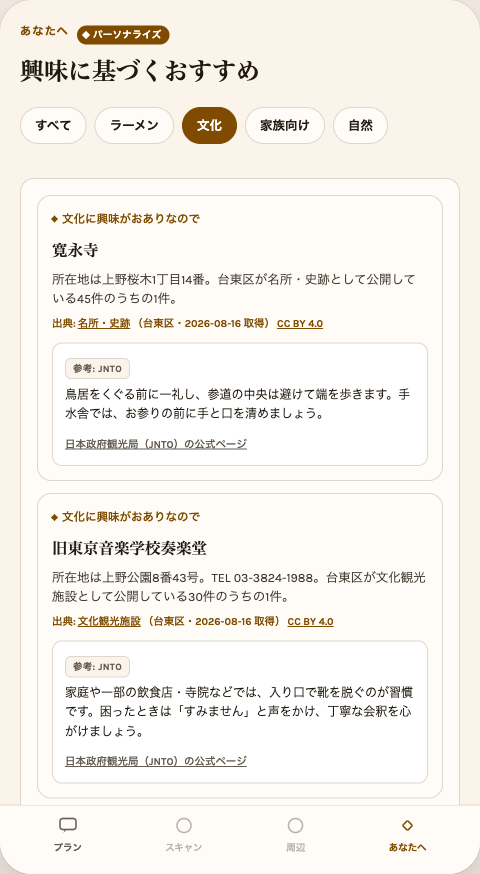
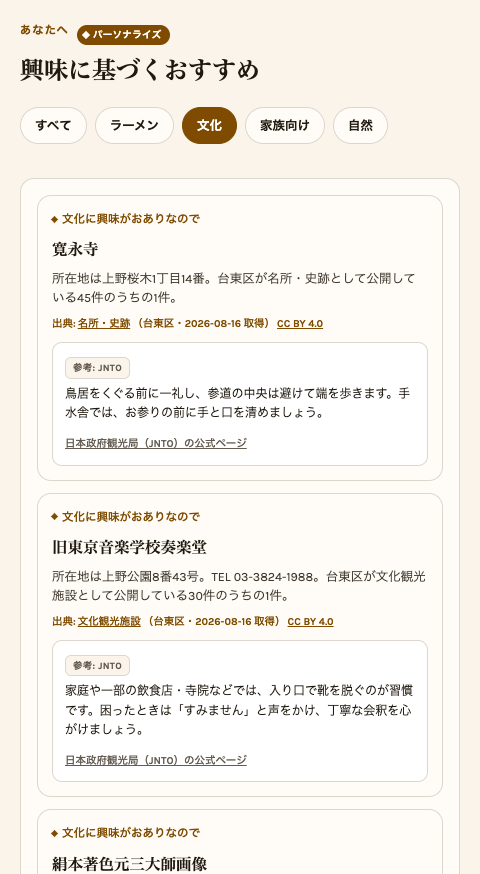
fix: #211 原稿の誤字を直し、build.js を v1.10.0 へ同期してキャプチャを撮り直す (#218)
* fix: #211 原稿の誤字を直し、build.js を v1.10.0 へ同期してキャプチャを撮り直す

## 誤字（#211 欠陥1）

「必須4項目」が「必颈4項目」に壊れていた3箇所を修正。v1.9.0 の編集で入った
置換ミスで、提出要件の固定語かつ提出前チェックリストの項目名だった。

## SSOT 同期（#211 欠陥2）

build.js の参照が v1.8.0 のまま、原稿は v1.9.0 まで進んでいた。v1.9.0 の
内容を build.js へ反映した:

- スライド9を「React／コア3操作／D1」の3層から、自然文 → メタデータRAG →
  Text-to-SQL → 出典強制の4段パイプラインへ。層と /mcp 公開は1枚へ集約
  （#117 / #119 / #120。全段に「稼働中」を付与）
- スライド14に開発スタイル（AI 仕様駆動開発）の帯を追加

## キャプチャ3枚の撮り直し

当初はスライド6のみの想定だったが、7/8 も変わっていた。#192 が
「答えられなかった問いは記録されます。…」の注記を未回答表示の脇に追加して
おり、旧キャプチャには写っていない。3枚とも本番（tokyo-odh-091）から実操作で
取得した。

- スライド6: 興味チップのみ・自由文空・ラーメンを外した「文化・家族向け・自然」
- スライド7: 文化チップ（寛永寺＋旧東京音楽学校奏楽堂＋JNTO 参考）
- スライド8: ラーメンチップ（insufficient_granularity ＋ #192 の注記）

**スライド6/7 は画面上部のみ**。#188 のイラストと #192 の注記で内容が縦に伸び、
フレーム全体は 480x1113 / 480x1550 になった。全高を貼ると資料の枠（比率
0.549）で幅 1.6〜2.2in の短冊になり本文が 2.8pt 相当まで潰れるため、比率を
保って上部を表示する方を採った。タブバーが写らなくなったので 6/7 の
キャプションからタブの断り書きを外した（SCROLL_CAPTION として分離）。
スライド8は 480x874 に収まりタブバーまで写るため TAB_CAPTION のまま。

## .gitignore

Playwright MCP の作業ファイル（.playwright-mcp/）と Codex のローカル環境設定
（.codex/）を無視対象へ追加。撮影中に **リポジトリ直下へ 480x1113 の
deck-plan.png が実際に落ちた** ため、PR #202 で入れたファイル名アンカーが
機能することも確認できた。

## 検証

- 3枚とも 480x874（従来と同一比率）。build.js のインチ指定は変更不要
- 撮影前に本番の bundle が develop のビルドと一致することを確認
  （index-C5d3xiTN.js）
- #114（未回答メッセージの照合対象）が写り込まないことを3画面で確認。worker
  側は未デプロイだが、この文言は3枚のいずれにも現れない
- スライド1/6/7/8/9/14 を soffice + pdftoppm で描画して目視。あふれ・
  引き伸ばし・列落ちなし
- typecheck / test（44 files・902 tests）/ build / ace:check-* /
[…]

diff --git a/deck/build.js b/deck/build.js
@@ -1,5 +1,5 @@
 // 旅コンシェルジュTOKYO — 提出資料（16:9・14枚）
-// 文言の SSOT: docs/submission-deck.md v1.8.0 / docs/02-design/DATABASE.md §2
+// 文言の SSOT: docs/submission-deck.md v1.10.0 / docs/02-design/DATABASE.md §2
 //
 // 縦のリズム: kicker 0.24 / title 0.55–1.55 / 本文 1.95–6.85 / 下マージン 0.65
 const pptxgen = require("pptxgenjs");
@@ -226,7 +226,7 @@ function closer(slide, text, o = {}) {
   const layers = [
     {
       k: "live", d: "本番URLで今動く",
-      items: "旅のプロフィール入力／プラン生成\nあなたへ／出典チップ／gaps 記録\nD1（10データセット・1,645スポット）\n/mcp でのコア3操作公開\nText-to-SQL による D1 実照会",
+      items: "旅のプロフィール入力／プラン生成\nあなたへ／出典チップ／gaps 記録\nD1（10データセット・1,645スポット）\n/mcp でのコア3操作公開\nText-to-SQL による D1 実照会\nメタデータRAG による自然文の分解",
     },
     {
       k: "spec", d: "仕様は確定、コードはこれから",
@@ -296,7 +296,10 @@ function closer(slide, text, o = {}) {
 }
 
 // ─────────────────────────────────────────── 6・7. 動く画面
+// スライド8 は画面全体が収まりタブバーまで写るため、タブの断り書きを付ける。
 const TAB_CAPTION = "画面下部のタブ「スキャン」「周辺」はデザイン構想です（スライド4の凡例）。キャプチャは本番URLを実際に操作して取得しました（2026-08-22）。";
+// スライド6/7 は内容が縦に長く、写っているのは画面上部だけ。写っていないものに言及しない。
+const SCROLL_CAPTION = "キャプチャは本番URLを実際に操作して取得しました（2026-08-22）。画面が縦に長いため上部のみを表示しています。";
 
 function screenSlide(o) {
   const s = lightSlide();
@@ -338,7 +341,7 @@ screenSlide({
     { t: "停留地ごとにデータセットの出典を表示", d: "データセット名・提供元・取得日と、東京都オープンデータカタログへのリンクが付きます。" },
     { t: "CC BY 4.0 の表示義務を自動で満たす", d: "回答が必ずデータセットに紐づくため、ライセンス表示が構造的に落ちません。" },
   ],
-  caption: TAB_CAPTION,
+  caption: SCROLL_CAPTION,
   notes: "プラン画面。3停留地すべてに出典チップが付いていることを指す。",
 });
 
@@ -352,7 +355,7 @@ screenSlide({
     { t: "1件ずつに出典とライセンスが付く", d: "プラン画面と同じ出典チップが、レコメンドカードにも必ず付きます。" },
     { t: "マナーの参考情報は出典と区別して表示", d: "JNTO の参考情報は「参考」として、オープンデータの出典とは見た目もラベルも分けています。" },
   ],
-  caption: TAB_CAPTION,
+  caption: SCROLL_CAPTION,
   notes: "あなたへ画面。出典（オープンデータ）と参考（JNTO）を混ぜていないことが要点。",
 });
 
@@ -403,41 +406,51 @@ screenSlide({
   kicker(s, "仕組み ②");
   title(s, "出典強制を、アーキテクチャで担保する。");
 
+  // 4段 + 矢印3本で本文幅 11.8 に収める（STEP_W * 4 + STEP_GAP * 3 = 11.8）
+  const STEP_W = 2.575;
+  const STEP_GAP = 0.5;
+  const STEP_PAD = 0.22;
   const boxes = [
-    { t: "React アプリ", d: "旅コンシェルジュTOKYO\n（最初のクライアント）", k: "live" },
-    { t: "コア3操作", d: "search_datasets\naggregate_dataset\nget_provenance", k: "live" },
-    { t: "Cloudflare D1", d: "10データセット\n1,645スポット", k: "live" },
+    { t: "自然文の質問", d: "「上野で文化と自然」\n自由文で受け取る", k: "live" },
+    { t: "メタデータRAG", d: "収録10件のメタデータから\n候補を特定", k: "live" },
+    { t: "Text-to-SQL", d: "生成SQLを封じ込めて\nD1 を実照会", k: "live" },
+    { t: "出典強制", d: "根拠が取れなければ\n答えない", k: "live" },
   ];
   boxes.forEach((b, i) => {
-    const x = 0.75 + i * 4.28;
-    card(s, { x, y: 1.95, w: 3.6, h: 2.2, fill: P.white, stroke: P.line });
+    const x = 0.75 + i * (STEP_W + STEP_GAP);
+    card(s, { x, y: 1.95, w: STEP_W, h: 2.2, fill: P.white, stroke: P.line });
     s.addText(b.t, {
-      x: x + 0.3, y: 2.18, w: 3.0, h: 0.4, fontFace: HEAD, fontSize: 17, bold: true,
-      color: P.ink, margin: 0, valign: "middle",
+      x: x + STEP_PAD, y: 2.18, w: STEP_W - STEP_PAD * 2, h: 0.4, fontFace: HEAD, fontSize: 14.5,
+      bold: true, color: P.ink, margin: 0, valign: "middle",
     });
     s.addText(b.d, {
-      x: x + 0.3, y: 2.66, w: 3.0, h: 0.9, fontFace: BODY, fontSize: 11.5,
-      color: P.muted, lineSpacing: 18, margin: 0, valign: "top",
+      x: x + STEP_PAD, y: 2.66, w: STEP_W - STEP_PAD * 2, h: 0.9, fontFace: BODY, fontSize: 10.5,
+      color: P.muted, lineSpacing: 16, margin: 0, valign: "top",
     });
-    pill(s, x + 0.3, 3.62, b.k);
-    if (i < 2) {
+    pill(s, x + STEP_PAD, 3.62, b.k);
+    if (i < boxes.length - 1) {
       s.addText("→", {
-        x: x + 3.62, y: 2.8, w: 0.64, h: 0.5, fontFace: BODY, fontSize: 22, bold: true,
+        x: x + STEP_W, y: 2.8, w: STEP_GAP, h: 0.5, fontFace: BODY, fontSize: 20, bold: true,
         color: P.brand, align: "center", valign: "middle", margin: 0,
       });
     }
   });
 
+  s.addText("メタデータRAG が動くのは自然文の質問を受けたとき（/mcp・自由文入力）。興味チップだけの呼び出しは構造化入力なので、この段を通らず3段目から入ります。", {
+    x: 0.75, y: 4.17, w: 11.8, h: 0.26, fontFace: BODY, fontSize: 9.5,
+    color: P.muted, margin: 0, valign: "middle",
+  });
+
   card(s, { x: 0.75, y: 4.45, w: 5.94, h: 2.1, fill: P.tint, stroke: P.line });
-  s.addText("同じ3操作を /mcp でも公開", {
-    x: 1.07, y: 4.68, w: 5.3, h: 0.4, fontFace: HEAD, fontSize: 16, bold: true,
+  s.addText("React → /api/* → D1、同じ3操作を /mcp でも公開", {
+    x: 1.07, y: 4.68, w: 5.3, h: 0.4, fontFace: HEAD, fontSize: 14, bold: true,
     color: P.ink, margin: 0, valign: "middle",
   });
-  s.addText("AI クライアントや翌年の参加者が、旅行アプリを経由せずに同じコア3操作を呼べます。本番で稼働しています。", {
-    x: 1.07, y: 5.14, w: 5.3, h: 0.85, fontFace: BODY, fontSize: 11.5,
+  s.addText("React アプリは /api/* でコア3操作（search_datasets / aggregate_dataset / get_provenance）を呼びます。同じ3操作を /mcp でも公開しており、AI クライアントや翌年の参加者が旅行アプリを経由せずに呼べます。", {
+    x: 1.07, y: 5.1, w: 5.3, h: 1.0, fontFace: BODY, fontSize: 11.5,
     color: P.muted, lineSpacing: 17, margin: 0, valign: "top",
   });
-  pill(s, 1.07, 6.06, "live");
+  pill(s, 1.07, 6.14, "live");
 
   card(s, { x: 6.94, y: 4.45, w: 5.61, h: 2.1, fill: P.espresso, stroke: P.espresso });
   s.addText("出典が取れない回答は生成しない", {
@@ -448,7 +461,7 @@ screenSlide({
     x: 7.26, y: 5.14, w: 4.97, h: 1.2, fontFace: BODY, fontSize: 11.5,
     color: P.cream, lineSpacing: 18, margin: 0, valign: "top",
   });
-  s.addNotes("アーキテクチャ。出典強制が運用ルールではなく構造であることが要点。");
+  s.addNotes("アーキテクチャ。自然文→メタデータRAG→Text-to-SQL→出典強制のパイプラインが全段稼働していること、出典強制が運用ルールではなく構造であることが要点（Issue #117 / #119 / #120）。メタデータRAG が見ているのは収録済みの確定10件で、9,600件は「カタログにある数」であって「検索している数」ではない（全カタログ・イン・プロンプト方式・Vectorize 不採用。worker/core/interpret.ts）。訊かれたら10件と答える。**4段は常に直列に通るわけではない** — 興味チップを選んだ呼び出しは構造化入力なので operations.ts の interpreted() が interpretQuery を呼ばず、2段目を飛ばして3段目から入る。スライド6/7/8のキャプチャは「興味チップのみ・自由文は空」で撮っているため、いずれも2段目を通っていない。2段目が働くのは /mcp・API コンソール・チップ未選択の自由文。");
 }
 
 // ─────────────────────────────────────────── 10. データが育つループ
@@ -466,7 +479,7 @@ screenSlide({
   steps.forEach((st, i) => {
     const x = 0.75 + i * 3.02;
     const on = st.k === "live";
-    card(s, { x, y: 1.95, w: 2.78, h: 3.55, fill: on ? P.white : "FBF8F3", stroke: P.line });
+    card(s, { x, y: 1.95, w: 2.78, h: 3.0, fill: on ? P.white : "FBF8F3", stroke: P.line });
     s.addShape(pres.ShapeType.ellipse, {
       x: x + 0.26, y: 2.24, w: 0.58, h: 0.58,
       fill: { color: on ? P.brand : P.spec }, line: { color: on ? P.brand : P.spec, width: 0 },
@@ -476,24 +489,35 @@ screenSlide({
       color: P.white, align: "center", valign: "middle", margin: 0,
     });
     s.addText(st.t, {
-      x: x + 0.26, y: 3.02, w: 2.26, h: 0.65, fontFace: HEAD, fontSize: 15.5, bold: true,
+      x: x + 0.26, y: 2.95, w: 2.26, h: 0.55, fontFace: HEAD, fontSize: 15.5, bold: true,
       color: P.ink, lineSpacing: 21, margin: 0, valign: "top",
     });
     s.addText(st.d, {
-      x: x + 0.26, y: 3.74, w: 2.26, h: 1.3, fontFace: BODY, fontSize: 11,
+      x: x + 0.26, y: 3.57, w: 2.26, h: 0.9, fontFace: BODY, fontSize: 11,
       color: P.muted, lineSpacing: 16, margin: 0, valign: "top",
     });
-    pill(s, x + 0.26, 5.08, st.k);
+    pill(s, x + 0.26, 4.57, st.k);
     if (i < 3) {
       s.addText("→", {
-        x: x + 2.8, y: 3.5, w: 0.22, h: 0.5, fontFace: BODY, fontSize: 18, bold: true,
+        x: x + 2.8, y: 3.2, w: 0.22, h: 0.5, fontFace: BODY, fontSize: 18, bold: true,
         color: P.brand, align: "center", valign: "middle", margin: 0,
       });
     }
   });
 
-  closer(s, "答えられないことを記録に残すと、それは失敗ではなく、次に何を公開してほしいかの一次情報になります。", { y: 5.8, h: 1.05, size: 17 });
-  s.addNotes("gaps ループ。記録までは稼働中、都への提出プロセスは未実装であることを区別する。");
+  // 本番の /gaps ダッシュボード。ループが実際に回っていることの証拠として実物を置く。
+  // 画像は 880x534（比率 1.648）なので、高さ 1.77in なら幅 2.92in。
+  s.addImage({ path: here("img/deck-gaps.png"), x: 0.75, y: 5.08, w: 2.92, h: 1.77 });
+  card(s, { x: 3.87, y: 5.08, w: 8.68, h: 1.77, fill: P.tint, stroke: P.line });
+  s.addText("答えられないことを記録に残すと、それは失敗ではなく、次に何を公開してほしいかの一次情報になります。", {
+    x: 4.19, y: 5.26, w: 8.04, h: 0.58, fontFace: HEAD, fontSize: 15, bold: true,
+    color: P.brand, lineSpacing: 20, margin: 0, valign: "middle",
+  });
+  s.addText("左は本番の /gaps ダッシュボード。2026-08-22 時点で 46 件を記録し、理由別（粒度不足 26 / その他 18 / 対象エリア外 2）とエリア別に集計しています。稼働中のカウンターなので、使われるたびに増えます。都への提出プロセス自体は未実装です。", {
+    x: 4.19, y: 5.9, w: 8.04, h: 0.8, fontFace: BODY, fontSize: 11,
+    color: P.muted, lineSpacing: 16, margin: 0, valign: "top",
+  });
+  s.addNotes("gaps ループ。記録までは稼働中、都への提出プロセスは未実装であることを区別する。左下は本番 /gaps の実物（2026-08-22 時点で46件）。");
 }
 
 // ─────────────────────────────────────────── 11. 基盤の開放
@@ -681,7 +705,7 @@ screenSlide({
   ];
   team.forEach((m, idx) => {
     const x = 0.75 + idx * 4.05;
-    card(s, { x, y: 2.0, w: 3.75, h: 3.0, fill: P.card, stroke: P.cardLine });
+    card(s, { x, y: 2.0, w: 3.75, h: 2.85, fill: P.card, stroke: P.cardLine });
     s.addShape(pres.ShapeType.ellipse, {
       x: x + 0.32, y: 2.32, w: 0.74, h: 0.74, fill: { color: P.gold }, line: { color: P.gold, width: 0 },
     });
@@ -699,15 +723,25 @@ screenSlide({
     });
   });
 
+  card(s, { x: 0.75, y: 4.98, w: 11.8, h: 0.74, fill: P.card, stroke: P.cardLine });
+  s.addText("開発スタイル", {
+    x: 1.07, y: 5.09, w: 1.7, h: 0.28, fontFace: BODY, fontSize: 10, bold: true,
+    color: P.gold, charSpacing: 1.2, margin: 0, valign: "middle",
+  });
+  s.addText("仕様書（docs/）を SSOT に、Claude Code / Codex による AI 仕様駆動開発でフルオート実装。仕様→実装→検証のループを AI が回します。", {
+    x: 1.07, y: 5.38, w: 11.16, h: 0.3, fontFace: BODY, fontSize: 11,
+    color: P.dim, margin: 0, valign: "middle",
+  });
+
   s.addText("9,600のオープンデータを、旅の相棒に。", {
-    x: 0.75, y: 5.55, w: 11.8, h: 0.6, fontFace: HEAD, fontSize: 24, bold: true,
+    x: 0.75, y: 5.9, w: 11.8, h: 0.55, fontFace: HEAD, fontSize: 24, bold: true,
     color: P.gold, margin: 0, valign: "middle",
   });
   s.addText("https://tabi-concierge-tokyo.tokyo-odh-091.workers.dev", {
-    x: 0.75, y: 6.22, w: 11.8, h: 0.35, fontFace: BODY, fontSize: 12,
+    x: 0.75, y: 6.48, w: 11.8, h: 0.32, fontFace: BODY, fontSize: 12,
     color: "9E9184", margin: 0, valign: "middle",
   });
-  s.addNotes("チーム紹介。役割分担のみを載せる。");
+  s.addNotes("チーム紹介。役割分担と開発スタイル（AI 仕様駆動開発）を載せる。");
 }
 
 pres.writeFile({ fileName: here("tabi-concierge-tokyo-submission.pptx") }).then((f) => console.log("wrote", f));

diff --git a/docs/submission-deck.md b/docs/submission-deck.md
@@ -1,6 +1,6 @@
 ---
 title: "submission-deck"
-version: "1.9.0"
+version: "1.10.0"
 status: "draft"
 owner: "@fffokazaki"
 created: "2026-08-21"
@@ -16,7 +16,7 @@ changeImpact: "medium"
 - 形式: PowerPoint または PDF・16:9 横
 - 添付: 画面キャプチャ **1600×900px** を1〜3点
 - 登録: 利用オープンデータ 最低1件〜最大10件（データURL＋タイトル）
-- 必颈4項目: ①課題及び解決策 ②プロダクト ③利用オープンデータ ④チーム紹介
+- 必須4項目: ①課題及び解決策 ②プロダクト ③利用オープンデータ ④チーム紹介
 
 > **この原稿から PPTX を生成するビルダーは [`deck/`](../deck/) にある**（`cd deck && npm run build`）。本書を直したら `deck/build.js` 側も同期すること。`build.js` は冒頭コメントで参照している本書のバージョンを持っており、そこがズレていたら未同期のサインである。
 >
@@ -56,7 +56,7 @@ changeImpact: "medium"
 | 6 | ② | 動く画面①：旅のプロフィール → プラン生成。全提案に出典チップが付く | **キャプチャ候補1** |
 | 7 | ② | 動く画面②：あなたへ。興味チップ → 出典つきレコメンド | **キャプチャ候補2** |
 | 8 | ② | **【山】答えられないときは、答えません**：ラーメン → 粒度不足と判定し理由を返す | **キャプチャ候補3**。文言は §3 で固定 |
-| 9 | ② | 仕組み：React → `/api/*` コア3操作（`search_datasets` / `aggregate_dataset` / `get_provenance`）→ D1。**技術的特異点をパイプラインで見せる：自然文 → メタデータRAGでデータセット特定 → Text-to-SQLでD1実照会 → 出典強制（根拠がなければ答えない）。いずれも稼働中**（[Issue #117](https://github.com/fffokazaki/tabi-concierge-tokyo/issues/117) / [#119](https://github.com/fffokazaki/tabi-concierge-tokyo/issues/119) / [#120](https://github.com/fffokazaki/tabi-concierge-tokyo/issues/120)）。同じコア3操作を `/mcp` でも公開。出典強制により CC BY 4.0 の表示義務をアーキテクチャで自動達成 | 図中で稼働中／設計済みを区別 |
+| 9 | ② | 仕組み：React → `/api/*` コア3操作（`search_datasets` / `aggregate_dataset` / `get_provenance`）→ D1。**技術的特異点をパイプラインで見せる：自然文の質問 → メタデータRAGによる分解でデータセット特定 → Text-to-SQLでD1実照会 → 出典強制（根拠がなければ答えない）。各段はいずれも稼働中**（[Issue #117](https://github.com/fffokazaki/tabi-concierge-tokyo/issues/117) / [#119](https://github.com/fffokazaki/tabi-concierge-tokyo/issues/119) / [#120](https://github.com/fffokazaki/tabi-concierge-tokyo/issues/120)）。**ただし4段は常に直列に通るわけではない** —— 興味チップを選んだ呼び出しは構造化入力なので `operations.ts` の `interpreted()` が `interpretQuery` を呼ばず、2段目を飛ばして3段目から入る（[API.md](02-design/API.md) §3.1）。2段目が働くのは `/mcp`・API コンソール・チップ未選択の自由文。**図とスライド上の断り書きでこれを明示すること**（スライド6/7/8のキャプチャは「興味チップのみ・自由文は空」で撮っているため、いずれも2段目を通っていない）。同じコア3操作を `/mcp` でも公開。出典強制により CC BY 4.0 の表示義務をアーキテクチャで自動達成 | 図中で稼働中／設計済みを区別 |
 | 10 | ② | データが育つループ：未回答を `gaps` に記録（本番D1で実際に動作）→ 分類 → 都への公開リクエスト（提出プロセスは構想） | — |
 | 11 | ② | 基盤の開放：コンシェルジュは MCP サーバーとして開放予定。**別リポジトリへ切り出し MIT ライセンスで OSS 公開予定**（[Issue #129](https://github.com/fffokazaki/tabi-concierge-tokyo/issues/129)）。旅行アプリは「最初のクライアント」にすぎない | **OSS 化の対象はコンシェルジュのみ**（旅行アプリ `src/` は対象外）。データ側 CC BY 4.0 とコード側 MIT を**別物として並記** |
 | 12 | ③ | 利用オープンデータ10件：タイトル・提供元・役割・ライセンス・カタログURL | [DATABASE.md](02-design/DATABASE.md) §2 の確定表をそのまま |
@@ -92,9 +92,26 @@ changeImpact: "medium"
 
 ## 5. 提出前チェックリスト
 
-- [ ] **必颈4項目の充足** — ①②③④が全て資料内に存在することを指差し確認
-- [ ] **スライド6のキャプチャを撮り直す**（1600×900px・現本番URL）。2026-08-22 に取得した旧キャプチャは、[Issue #188](https://github.com/fffokazaki/tabi-concierge-tokyo/issues/188) のカテゴリイラスト追加後のプラン画面と見た目が一致しないため使用しない。操作条件は従来どおり、興味チップのみ・自由文は空、ラーメンを外した「文化・家族向け・自然」とする
-- [x] **スライド7/8のキャプチャ**は2026-08-22取得済みのものを維持する。Issue #188 の対象はプラン画面の停留地カードだけで、「あなたへ」画面と未回答表示は変更しない
+- [ ] **必須4項目の充足** — ①②③④が全て資料内に存在することを指差し確認
+- [x] **資料に埋め込むキャプチャ3枚（スライド6/7/8）を撮り直した**（2026-08-22・現本番URL `tokyo-odh-091`・**480×874**）。これは資料内に貼る端末フレーム画像で、**下の提出フォーム添付（1600×900px）とは別の成果物**。当初はスライド6のみの想定だったが、**7/8 も変わっていた** ―― [Issue #192](https://github.com/fffokazaki/tabi-concierge-tokyo/issues/192) が「答えられなかった問いは記録されます。…」の注記を未回答表示の脇に追加しており、旧キャプチャにはこれが写っていない。操作条件は従来どおり、興味チップのみ・自由文は空、スライド6はラーメンを外した「文化・家族向け・自然」、スライド7は文化チップ、スライド8はラーメンチップ
+- [x] **スライド6/7のキャプチャは画面上部のみ**。フレーム全体（`.app-shell`）の高さは実測で **プラン 480×1113 / あなたへ 480×1550**（2026-08-22）。全高を貼ると資料の枠（`screenSlide` の `w: 2.86, h: 5.21`・比率 0.549）で幅 **1.6〜2.3in** の短冊になり、本文が **2.8pt 相当**まで潰れるため、**比率を保って上部を表示する**方を採った。
+
+  | 画像 | 実寸 | 全高で貼った場合の幅 | 本文の実効サイズ |
+  | --- | --- | --- | --- |
+  | プラン | 480×1113 | 5.21 × 480/1113 = 2.25in | 3.9pt |
+  | あなたへ | 480×1550 | 5.21 × 480/1550 = 1.61in | **2.8pt** |
+  | ラーメン | 480×874 | 5.21 × 480/874 = 2.86in（枠と一致） | 4.9pt |
+
+  pt は **アプリ本文の 11.5px**（本番で実測した最頻の本文サイズ）を基準に `11.5 / 480 × 幅in × 72` で換算した値。**旧キャプチャは3枚とも 480×874 だが、当時のフレーム高を測った記録が無い**ため、当時 `.app-shell` が 874 に収まっていたのか、当時も上部だけを写していたのかは確定できない（#188 のイラストと #192 の注記でいまが伸びていることは実測済み）。タブバーが写らなくなったので、6/7 のキャプションからタブの断り書きを外した（`SCROLL_CAPTION`）。スライド8は 480×874 に収まりタブバーまで写るため従来の `TAB_CAPTION` のまま
+- [x] **提出フォームに添付する画面キャプチャ 1600×900px を3点用意した**（2026-08-22・本番 `tokyo-odh-091`・興味チップのみ・自由文は空）。**資料に埋め込む 480×874 の端末フレーム画像とは別物**で、そちらを添付しても規定を満たさない（[CONSTRAINTS.md](01-context/CONSTRAINTS.md) §7 の変更不可の規定）。**`deck/submit/` に追跡している**（撮り直すと `/gaps` の件数が変わって同じものにならないため、生成物ではなく提出物として固定する）。`~/Documents/tabi-concierge-tokyo-deck/submit/` にも同じものを置いた。撮り方は [deck/README.md](../deck/README.md) に記録した
+
+  | # | 画面 | 見せているもの |
+  | --- | --- | --- |
+  | 1 | プラン | 3停留地すべてに出典チップ + CC BY 4.0、カテゴリイラスト、タブバー |
+  | 2 | あなたへ（ラーメン） | `insufficient_granularity` と理由、記録される旨の注記 |
+  | 3 | `/gaps` | 未回答の件数と理由別・エリア別の内訳 |
+
+  `.app-shell` は 1600×900 のビューポートでも **480×874 固定**（内部がスクロールする端末モック）なので、ビューポートごと撮ればフレーム全体とタブバーが1枚に収まる。`/gaps` はデスクトップ幅のページなので画面いっぱいに写る。**`/gaps` の件数は稼働中のカウンターで増える** —— 撮影中にも 46 → 48 と動いた（アプリを操作した分が記録された）
 - [ ] **タブバーの見え方を確認** — スキャン・周辺は `AppTabs.tsx` の `INACTIVE_TABS` で disabled 表示。キャプチャだけを見る審査員はスライド4の凡例を見ないため、「未完成に見える」ならキャプチャ内かキャプション側に「スキャン・周辺はデザイン構想」と明示する。**見え方の確認は済み**（2026-08-22・薄いグレーのラベルで「壊れている」ようには見えないが、キャプチャ単体では「まだ作っていない」と読める）。**キャプション側に置く方針**で、記載は資料作成（[Issue #127](https://github.com/fffokazaki/tabi-concierge-tokyo/issues/127)）で行うため未チェックのまま残す
 - [ ] **カタログURL の生存確認** — 確定10件を提出直前に再確認（[DATABASE.md](02-design/DATABASE.md) §3）
 - [ ] **スライド11 の OSS 記述の確認** — OSS 化の対象は**コンシェルジュ（`worker/` `shared/` `scripts/` `migrations/`）のみ**で、旅行アプリ `src/` は含まない。切り出しの実施は提出後〜Final Stage（[Issue #129](https://github.com/fffokazaki/tabi-concierge-tokyo/issues/129)）のため、提出資料には「公開予定」と書く
@@ -110,6 +127,26 @@ changeImpact: "medium"
 - [TASKS.md](07-project-management/TASKS.md) — 提出物タスクの進捗
 
 ## Changelog
+
+### [1.10.0] - 2026-08-22
+
+#### 修正
+
+- 「必須4項目」の「須」が別字（U+5FC5 U+9885）に置換されていた3箇所を修正（[Issue #211](https://github.com/fffokazaki/tabi-concierge-tokyo/issues/211)）。v1.9.0 の編集で入った置換ミス。提出要件の固定語であり、提出前チェックリストの項目名でもあった。**壊れた字そのものは本書に書かない** —— Issue #211 の受け入れ条件が「検索して0件」であるため、引用が自分でゲートに引っかかる
+
+#### 変更
+
+- **v1.9.0 で未実施だった `deck/build.js` への同期を実施**（[Issue #211](https://github.com/fffokazaki/tabi-concierge-tokyo/issues/211)）:
+  - スライド9を「React／コア3操作／D1」の3層から、**自然文 → メタデータRAG → Text-to-SQL → 出典強制の4段パイプライン**へ。層と `/mcp` 公開は1枚のカードへ集約（[Issue #117](https://github.com/fffokazaki/tabi-concierge-tokyo/issues/117) / [#119](https://github.com/fffokazaki/tabi-concierge-tokyo/issues/119) / [#120](https://github.com/fffokazaki/tabi-concierge-tokyo/issues/120)）
+  - スライド14に開発スタイル（AI 仕様駆動開発）の帯を追加
+- **キャプチャ3枚を撮り直した**（§5 参照）。スライド6/7は画面上部のみの表示に変え、キャプションをタブバーに言及しない `SCROLL_CAPTION` へ分離した
+
+#### 修正（セルフレビュー指摘）
+
+- スライド9の「メタデータRAG」の説明が「約9,600件のカタログからデータセットを特定」になっていたのを「収録10件のメタデータから候補を特定」へ修正。実装は**確定10件のメタデータをプロンプトへ全件渡す方式**（Vectorize 不採用・`worker/core/interpret.ts`）で、9,600件は「カタログにある数」であって「検索している数」ではない。「稼働中」バッジ付きで未実装範囲を稼働中として提示していた（絶対ルール #1）
+- スライド9の4段パイプラインが「常に直列に通る」と読める構成だったのを修正。**興味チップの呼び出しは構造化入力なので2段目（メタデータRAG）を飛ばす**（`operations.ts` の `interpreted()`）。1段目の説明が「自然文」と「プロフィールと興味」を混ぜていたのを自然文だけに絞り、スライド上に経路の断り書きを1行追加した。**§2 のスライド9行（SSOT 側）も同時に限定した** —— ここを直さないと次の同期で `build.js` へ戻ってくる
+- §5 の数値を再導出可能にした。幅の範囲が自分の上限（2.25in）を含んでいなかったのを 1.6〜2.3in へ、pt の換算基準（アプリ本文 11.5px・本番実測）を明記、「480×874→1550」の矢印記法が「旧キャプチャ時点のフレーム高」と「いまのフレーム高」を1つに潰していたのを分けて書いた
+- §5 のキャプチャ項目が**2つの別成果物を混同していた**のを分離。資料に埋め込む端末フレーム画像（480×874）と、提出フォームに添付する画面キャプチャ（1600×900px・規定）は別物で、後者は**未実施**として明示した。混同は本 PR 以前からあり（旧文は「スライド6のキャプチャを撮り直す（1600×900px）」と両者を1項目に混ぜていた）、本 PR の書き換えで 1600×900 の要件追跡が一度消えていた
 
 ### [1.9.0] - 2026-08-22
 
@@ -178,4 +215,4 @@ changeImpact: "medium"
 
 #### 追加
 
-- 初版作成。提出資料（16:9・必颈4項目）の14枚構成、3層区別ルール、スライド8の固定文言、チーム紹介、提出前チェックリストを定義した
+- 初版作成。提出資料（16:9・必須4項目）の14枚構成、3層区別ルール、スライド8の固定文言、チーム紹介、提出前チェックリストを定義した

diff --git a/deck/README.md b/deck/README.md
@@ -41,10 +41,35 @@ cd deck
 ```
 
 JPEG は目視QA用。**文字あふれ・表の列落ちはこれを見ないと分からない**（テストが無いため）。
-`-f 12 -l 13` のようにページを絞ると速い。なお LibreOffice の描画は PowerPoint と完全一致では
-ないので、あふれの検出には使えるが最終確認は PowerPoint で開くこと。
+`-f 12 -l 13` のようにページを絞ると速い。
 
-**提出フォームの画面キャプチャ 1600×900px はこれとは別物**で、取り違えないこと
+⚠ **この目視QAは代替フォントでの描画である。** `build.js` が指定する `Yu Mincho`（見出し）と
+`Yu Gothic`（本文）は**この Mac に入っていない**（2026-08-22 実測: `fc-list` に 0 件。Hiragino は
+36 件ある）。したがって soffice は別のフォントのメトリクスで組んでおり、**Yu Gothic を持つ環境で
+開いたときのあふれ・重なりを保証しない**。枠がぎりぎりの箇所は、目視QAではなく
+「枠の幅 ÷ フォントサイズ = 1行に入る全角字数」の算術で確かめるほうが確実。最終確認は
+PowerPoint で開くこと。
+
+## 提出フォームに添付する 1600×900px（別成果物）
+
+資料に埋め込む端末フレーム画像（480×874）とは**別物**。取り違えないこと。撮り方は Playwright で
+ビューポートを **1600×900** にして本番URLを操作し、ビューポートごと撮る。`.app-shell` は
+1600×900 でも **480×874 固定**（内部がスクロールする端末モック）なので、フレーム全体と
+タブバーが1枚に収まる。`/gaps` はデスクトップ幅のページなのでそのまま画面いっぱいに写る。
+
+**この3点は `deck/submit/` に追跡している**（他の成果物と違って `.gitignore` していない）。理由は
+**撮り直すと同じものにならない**こと —— `/gaps` の件数は稼働中のカウンターで、使われるたびに増える
+（撮影中も 46 → 48 と動いた）。提出したものそのものを残すために、生成物ではなく提出物として固定する。
+
+2026-08-22 に用意した3点（本番 `tokyo-odh-091`・興味チップのみ・自由文は空）:
+
+| # | 画面 | 見せているもの |
+| --- | --- | --- |
+| 1 | プラン | 3停留地すべてに出典チップ + CC BY 4.0、カテゴリイラスト |
+| 2 | あなたへ（ラーメン） | `insufficient_granularity` と理由、記録される旨の注記 |
+| 3 | `/gaps` | 未回答の件数と理由別・エリア別の内訳（**稼働中のカウンターなので増える**） |
+
+**規定は変更不可**（[../docs/01-context/CONSTRAINTS.md](../docs/01-context/CONSTRAINTS.md) §7）
 （[../docs/01-context/CONSTRAINTS.md](../docs/01-context/CONSTRAINTS.md)）。
 
 ## 画像
